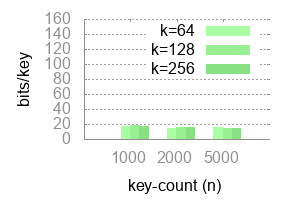
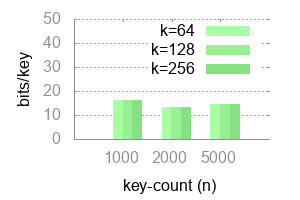
doc: slimtrie: update mem usage report

diff --git a/trie/report/report.go b/trie/report/report.go
@@ -13,12 +13,12 @@ var flg *benchhelper.ReportCmdFlag
 
 func main() {
 	flg = benchhelper.InitCmdFlag()
-	getPresent()
-	getAbsent()
+	// getPresent()
+	// getAbsent()
 
 	memOverhead()
 
-	fprGet()
+	// fprGet()
 
 }
 
@@ -76,7 +76,7 @@ func memOverhead() {
 	if flg.Plot {
 		script := `
 fn = "report/mem_usage.data"
-set yr [0:160]
+set yr [0:50]
 set xlabel 'key-count (n)'
 set ylabel 'bits/key' offset 1,0
 `

diff --git a/trie/report/mem_usage.md b/trie/report/mem_usage.md
@@ -1,5 +1,5 @@
 | key-count | k=64 | k=128 | k=256 |
 |-----------|------|-------|-------|
-|      1000 |   16 |    17 |    16 |
-|      2000 |   13 |    14 |    14 |
-|      5000 |   14 |    13 |    13 |
+|      1000 |   16 |    16 |    16 |
+|      2000 |   13 |    13 |    13 |
+|      5000 |   14 |    14 |    14 |
